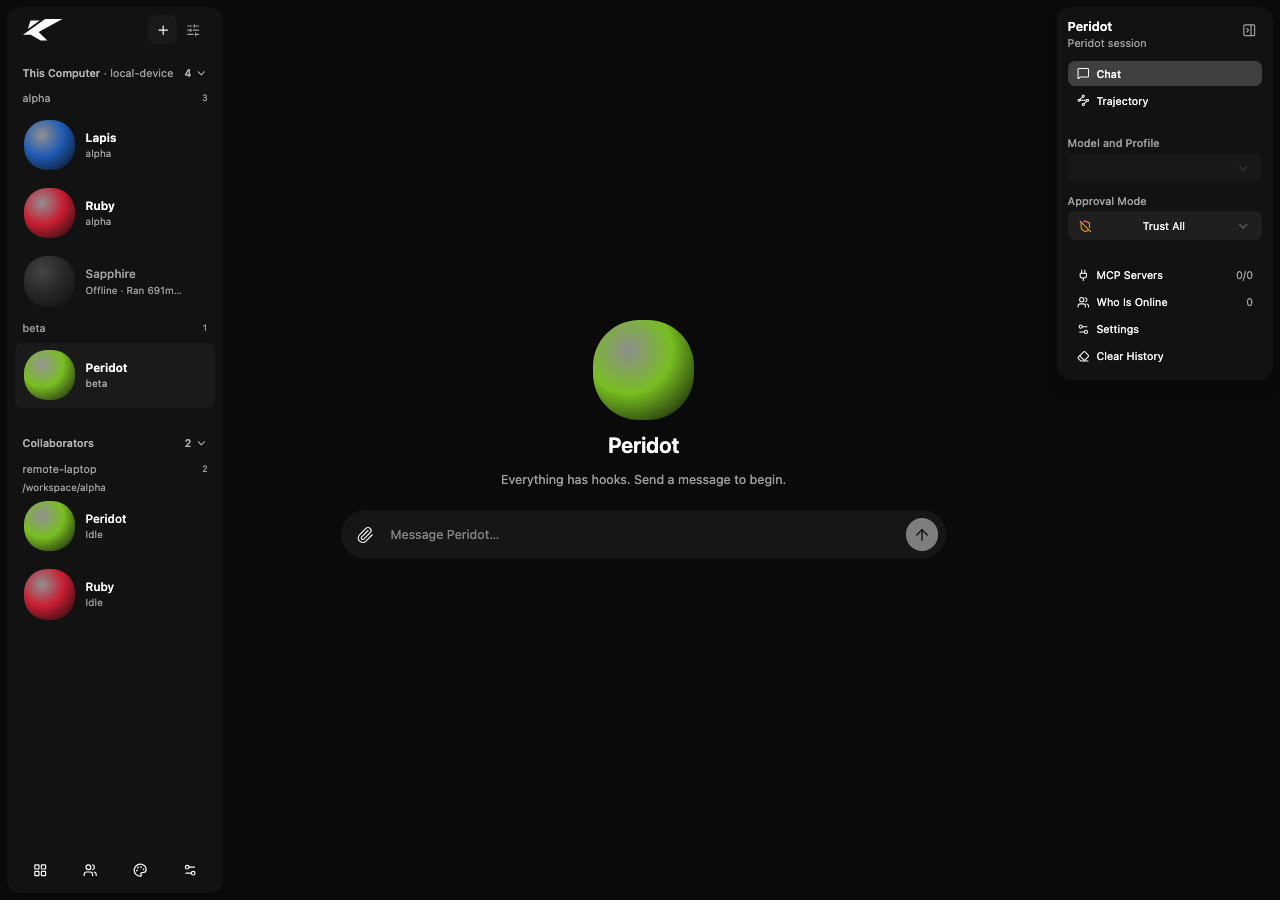
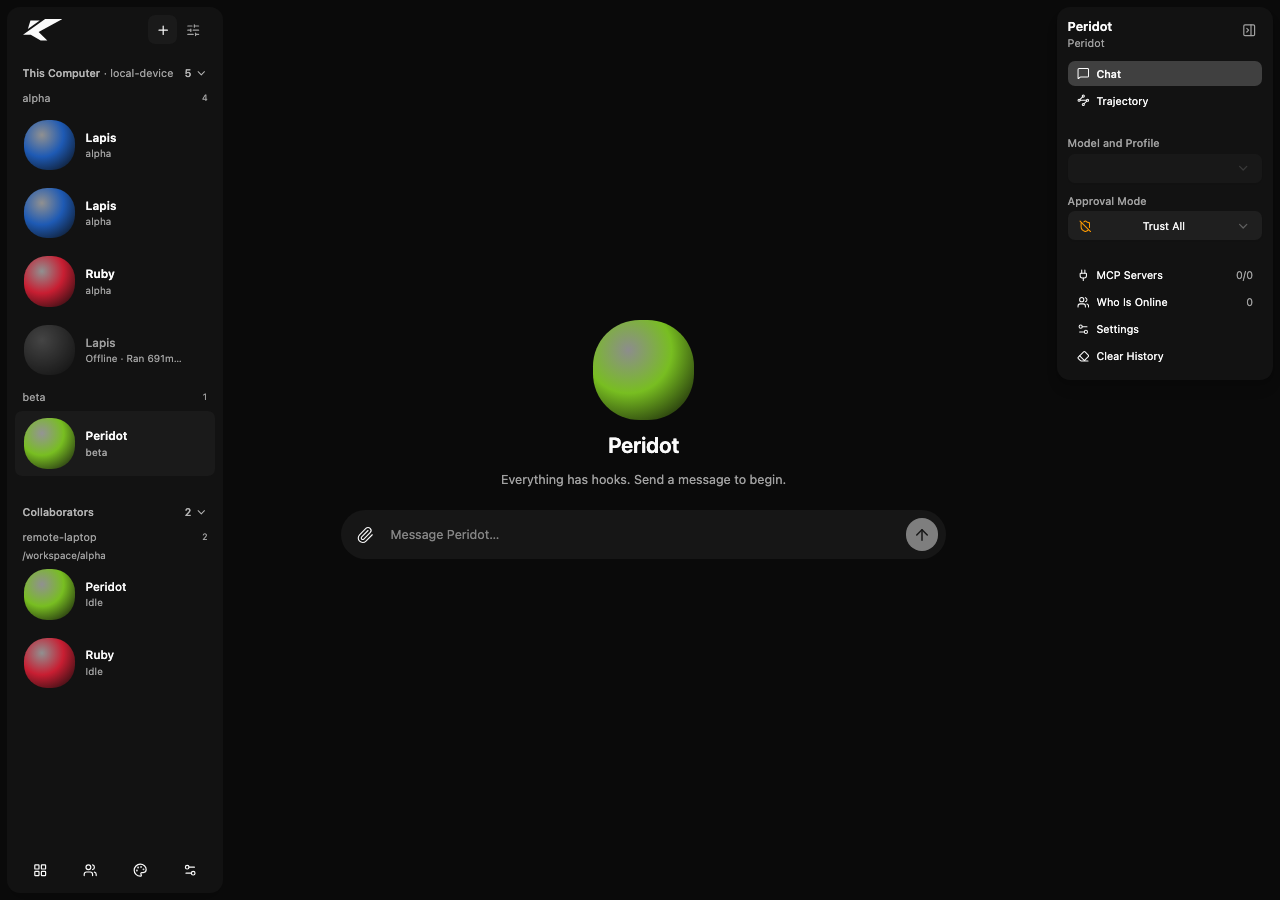
docs(webui): refresh sidebar screenshots for duplicate sessions

Changed region(s): [[0.0, 0.1867, 0.125, 0.7778]]

diff --git a/docs/verification/issue-263/README.md b/docs/verification/issue-263/README.md
@@ -1,11 +1,12 @@
 # Issue #263 browser verification
 
-Captured on branch `issue-263-agent-list-order` at `74fdf792` with headless
+Captured on branch `issue-263-agent-list-order` at `270a0b0a` with headless
 Google Chrome and the worktree-local frontend build.
 
 The API was intentionally mocked. Chrome blocked requests to the live engine
 (`127.0.0.1:7433`, including WebSocket) and API proxy (`127.0.0.1:8080`); the
-mock supplied two local workspaces plus a remote network/device/workspace and
+mock supplied repeated local sessions for the same identity/workspace, an
+offline overlap, a second workspace, and a remote network/device/workspace. It
 recorded the order POST. No live engine or real agent was contacted.
 
 Responsive checks used these viewports. Document/body width matched the viewport
@@ -23,10 +24,11 @@ at each size; workspace groups and remote device/workspace rows were visible.
 
 ![1280 x 900 sidebar with mocked API](sidebar-1280.png)
 
-The remote agent action menu exposes Move Up; clicking it sent the expected
-network/device-scoped order to the mock API:
+The second live Lapis session row exposes Move Up and Move Down independently
+from the other same-identity rows; Move Down sent unique session keys plus the
+persona/offline fallback anchor to the mock API:
 
-![1280 x 900 remote agent order menu with mocked API](sidebar-order-menu-1280.png)
+![1280 x 900 duplicate local session order menu with mocked API](sidebar-order-menu-1280.png)
 
 This is responsive UI and menu evidence only, not an end-to-end engine/browser
 run. Engine persistence and stale-client behavior are covered separately by
